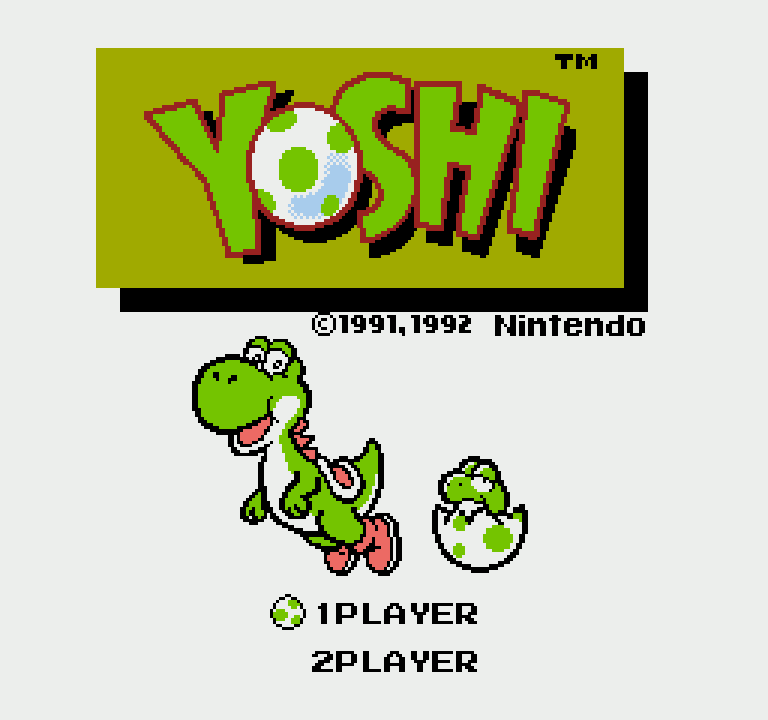
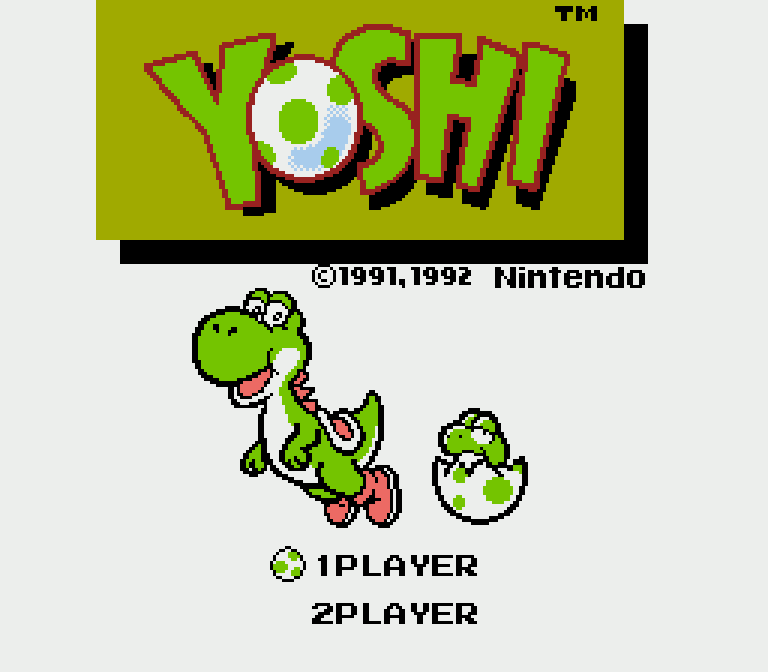
Crop OS window chrome and dead space out of card images
Emissary reported title bars and negative space on the cards. The
earlier detector only looked for macOS traffic lights, so it missed
what was actually there: Windows title bars on Super Mario World and
DKC2, and a macOS one on ActRaiser sitting under a black band.

Scanned all 105 cover images by per-row median colour, which survives
the text inside a title bar where a uniformity test does not, and
cropped 26 of them: title bars on Super Mario World, DKC2, Yoshi,
Pokemon Ruby, WarioWare, ActRaiser and the four Mega Man X6 variants,
and letterbox or pillarbox padding on Minish Cap, Mega Man Zero, A Link
to the Past, Star Fox, Faxanadu, Metroid Prime Hunters, the two Sonic
shots and others. ActRaiser needed a second pass: it was a small window
centred on a large black canvas, so it is cropped to its content box.

Box art is left alone; its side margins are the artwork's own shape,
not dead space.

The remaining section title built as two opposing sentences is now one
statement. A sweep of every title, headline and summary on the site
found no others.

Changed region(s): [[0.125, 0.0, 0.8438, 0.9375]]

diff --git a/data/games/41_boktai/index.md b/data/games/41_boktai/index.md
@@ -14,7 +14,7 @@ group: "Game Boy Advance"
 verified: "2026-08-18"
 updated: "2026-08-03"
 added: "2026-07-30"
-cover: "/covers/boktai-sensor.webp"
+cover: "/data/blog/10_building-enhancing-recomps/boktai.webp"
 ---
 
 Boktai's original cartridge had a real light sensor. Sun outside mattered inside the game.
